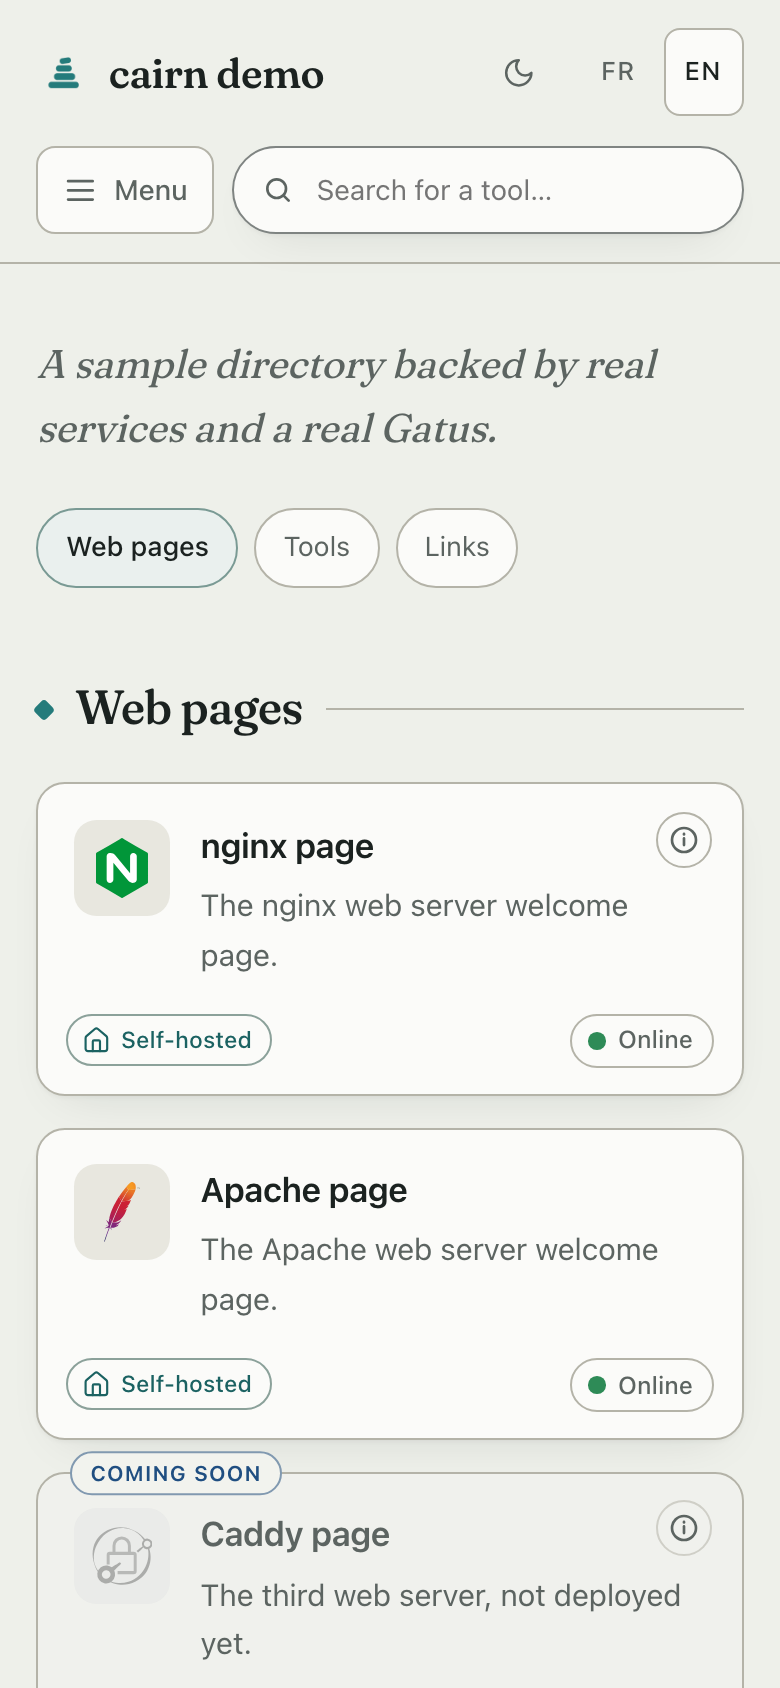
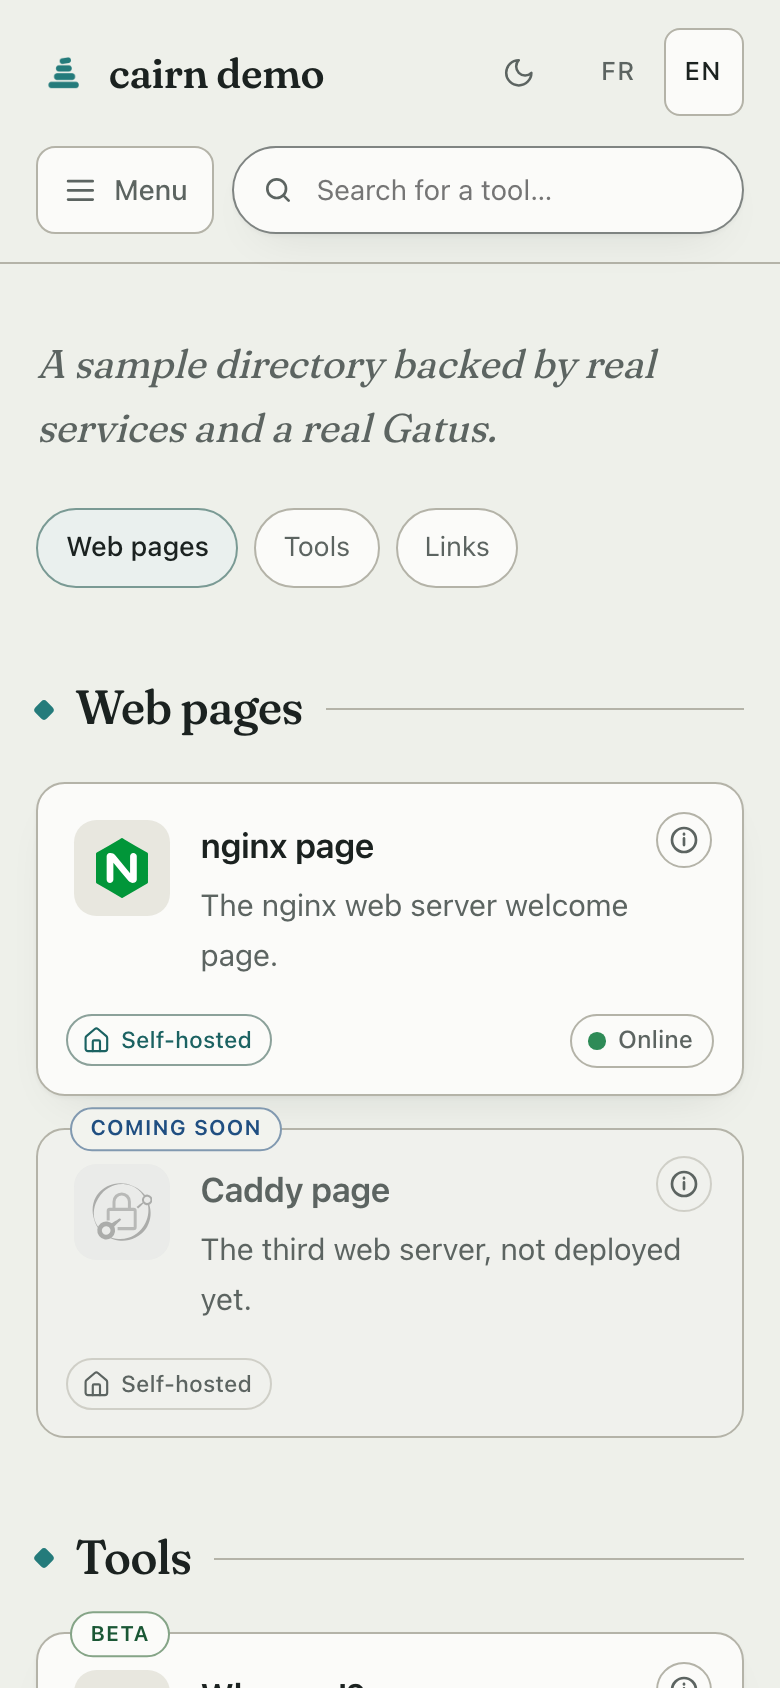
demo: eight cards, three to a category (#83)
Ten then nine left a category wrapping onto a row of its own. The card that went first was cairn source code, whose url the header already carries on every page; Apache went with its container, its gateway route, its published port and its Gatus endpoint, since a container running for nobody is the wrong thing in a demo whose argument is real containers.

diff --git a/demo/README.md b/demo/README.md
@@ -72,7 +72,6 @@ produces for any site; refresh them with
 | 8081 | Gatus dashboard     |
 | 8082 | whoami              |
 | 8083 | nginx               |
-| 8084 | Apache              |
 | 8085 | podinfo             |
 | 8086 | nothing (the ghost) |
 
